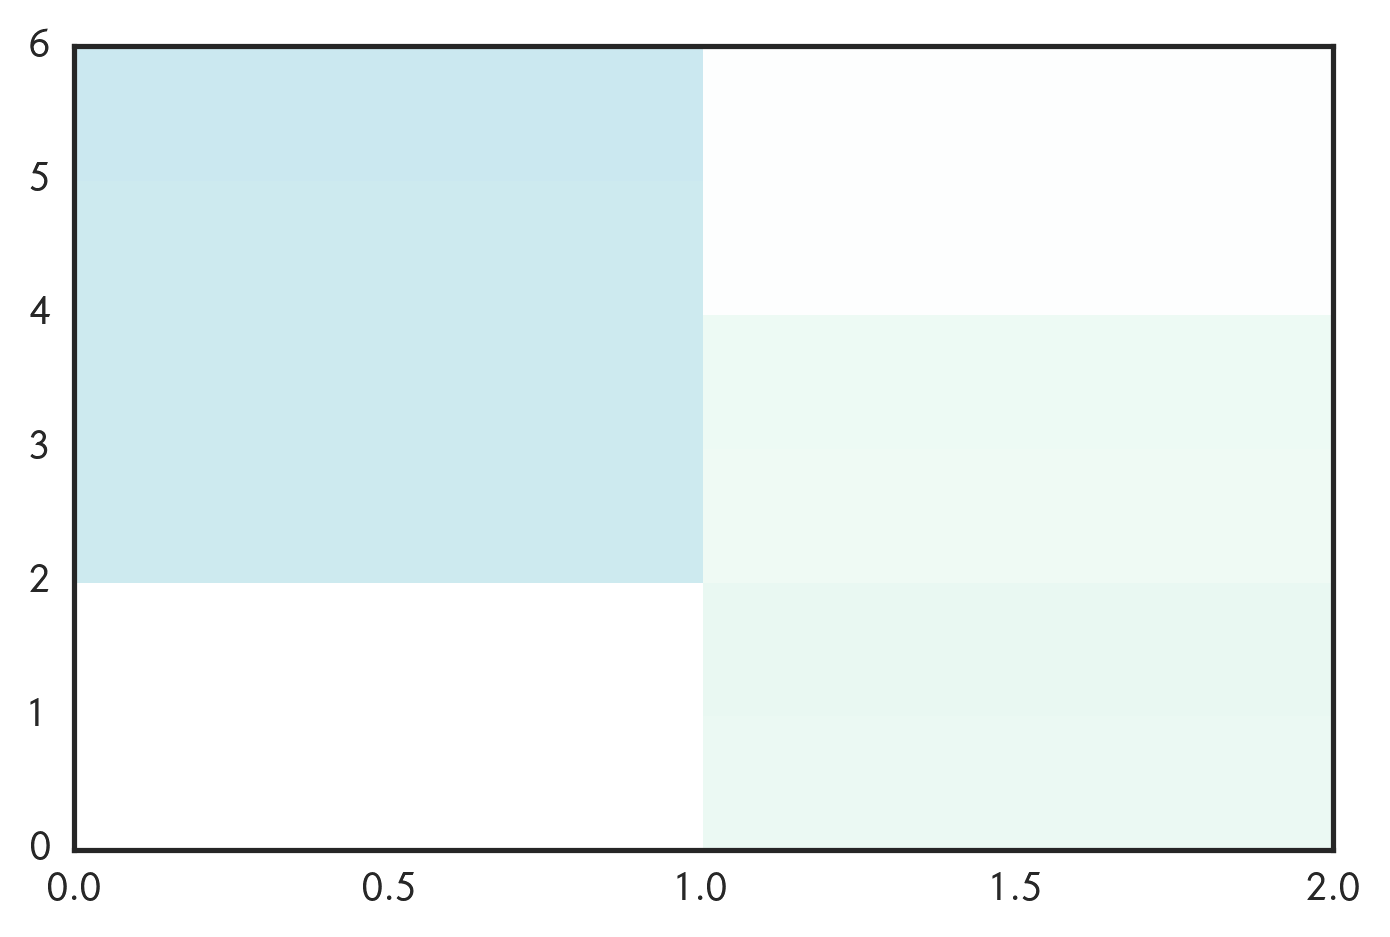
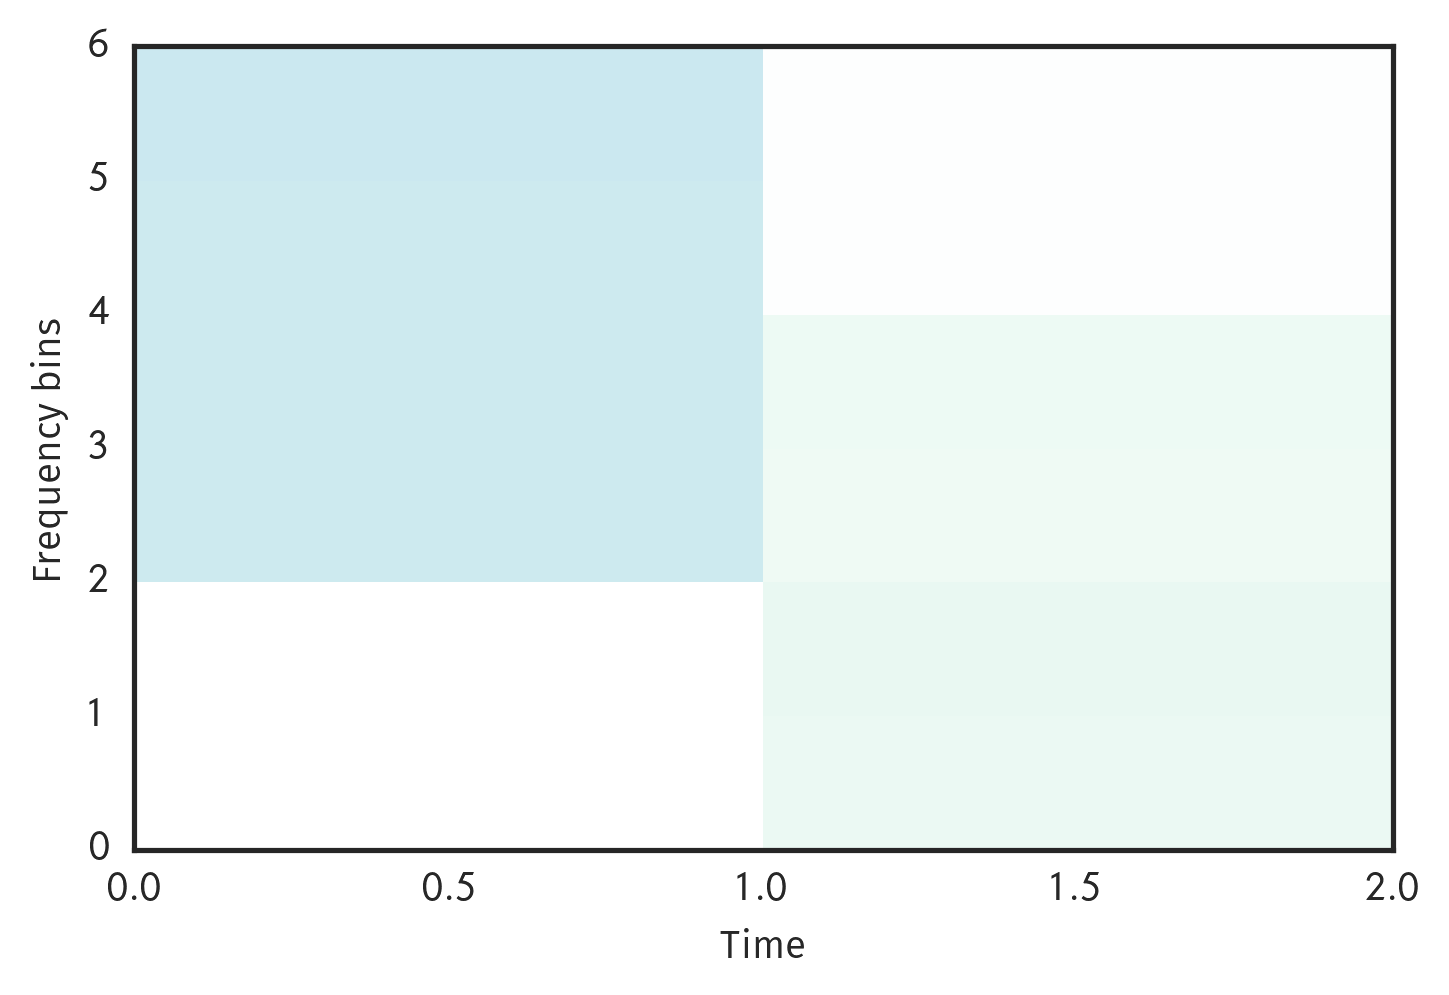
better plots, refining most slides

Changed region(s): [[0.0, 0.0309, 0.9899, 0.9594]]

diff --git a/index.html b/index.html
@@ -69,11 +69,14 @@
 					</p>
 				</section>
 				<section>
-					<h2>Common Fate Theory</h2>
+					<h2>Wanted</h2>
 					<ul>
-						<li><a href="#">Bregman in 1994</a> used term "Common Fate" in auditory scene analysis.</li>
-						<li>He describes <b>common fate</b> as the ability to group sound objects based on their common motion over time</li>
-						<li>Humans ability to detect and group sound sources by small differences in the FM and AM modulation is outstanding</li>
+						<li>Signal representation which exploits
+							<li>Amplitude Modulations</li>
+							<li>Frequency Modulations</li>
+							<li>Phase Modulations</li>
+						</li>
+						<li>Easily invertible</li>
 					</ul>
 				</section>
 				<section>
@@ -88,9 +91,29 @@
 					<h1 style='color:white; font-size: 2.4em'>Common Fate Transform</h1>
 				</section>
 				<section>
+					<h2>"Common Fate"</h2>
+					<ul>
+						<li><a href="#">Bregman in 1994</a> used term "Common Fate" in auditory scene analysis.</li>
+						<li>He describes <b>common fate</b> as the ability to group sound objects based on their common motion over time</li>
+						<li>Humans ability to detect and group sound sources by small differences in the FM and AM modulation is outstanding</li>
+					</ul>
+				</section>
+				<section>
 					<h2>Common Fate Transform</h2>
 					<p>
 						<img src="images/cft_blocks.svg" alt="" />
+					</p>
+				</section>
+				<section>
+					<h2>Audio</h2>
+					<p>
+						<img class="stretch" width="90%" src="images/wavform.svg">
+					</p>
+				</section>
+				<section>
+					<h2>STFT</h2>
+					<p>
+						<img class="stretch" width="90%" src="images/stft.png">
 					</p>
 				</section>
 				<section>
@@ -98,10 +121,16 @@
 					<table>
 						<tr>
 							<td>
-								<img src="images/stft.png" alt="" />
+								<img src="images/gft.png" width="100%" alt="" />
+								<p style="text-align:center">
+									STFT Grid
+								</p>
 							</td>
 							<td>
-								<img src="images/cft.png" alt="" />
+								<img src="images/cft.png" width="100%" alt="" />
+								<p style="text-align:center">
+									CFT
+								</p>
 							</td>
 						</tr>
 					</table>
@@ -114,7 +143,6 @@
 						<img class="stretch" width="90%" src="images/gridplot.svg">
 					</p>
 				</section>
-
 				<section>
 					<h2>Compared to modulation spectrograms... </h2>
 					<ul>
@@ -158,14 +186,14 @@
 					<section>
 						<h2>Common Fate Model</h2>
 						<p>
-							<img src="images/cfm_unfolded.svg" width="100%" alt="" />
+							<img src="images/cfm.svg" width="100%" alt="" />
 								$$\sum\limits_{j=1}^{J} \mathbf{P}_{j}(a,b,f) \circ \mathbf{h}_{j}(t)$$
 						</p>
 					</section>
 					<section>
 						<h2>Common Fate Model</h2>
 						<p>
-							<img src="images/cfm.svg" width="100%" alt="" />
+							<img src="images/cfm_unfolded.svg" width="100%" alt="" />
 								$$\sum\limits_{j=1}^{J} \mathbf{P}_{j}(a,b,f) \circ \mathbf{h}_{j}(t)$$
 						</p>
 					</section>
@@ -174,6 +202,7 @@
 					<h2>Signal Separation</h2>
 					<ol>
 						<li>Compute the CFT from audio signal to get tensor $\mathbf{V}$</li>
+						<li>Take the magnitude $|\mathbf{V}|$</li>
 						<li>Initialise $\mathbf{P}$ and $\mathbf{h}$ with random non-negative values</li>
 						<li>Apply multiplicative update rule to minimize $\beta$-divergence</strong></li>
 						<li>Synthesise factorised components using Wiener filtering</strong></li>

diff --git a/data/render_patches.py b/data/render_patches.py
@@ -64,6 +64,9 @@ def displaySTFT(X, name=None, limit=None):
         vmax=20,
         cmap='cubehelix_r',
     )
+    plt.xlabel('Time')
+    plt.ylabel('Frequency bins')
+
     if limit is not None:
         plt.axis(limit)
 
@@ -73,7 +76,7 @@ def displaySTFT(X, name=None, limit=None):
         plt.savefig(name, bbox_inches='tight', dpi=300)
 
 
-def displayMSTFT(Z, name=None, tricks=False):
+def displayMSTFT(Z, name=None, tricks=False, gft=False):
     plt.rc('text', usetex=True)
     plt.rc('font', family='FiraSans')
 
@@ -120,16 +123,25 @@ def displayMSTFT(Z, name=None, tricks=False):
     plt.rcParams.update(params)
     # display a modulation spectrogram, of shape (w1,w2,f,t)
     plt.figure(1)
+
     (nF, nT) = Z.shape[2:4]
     f, ax = plt.subplots(nF, nT)
     for (f, t) in itertools.product(range(nF), range(nT)):
         # plt.subplot(nF, nT, (nF-f-1) * nT+t+1)
-        ax[f, t].pcolormesh(
-            np.flipud(abs(Z[..., nF - f - 1, t])) ** 0.3,
-            vmin=0,
-            vmax=10,
-            cmap='cubehelix_r',
-        )
+        if gft:
+            ax[f, t].pcolormesh(
+                np.flipud(abs(Z[..., nF - f - 1, t])),
+                vmin=0,
+                vmax=10,
+                cmap='cubehelix_r',
+            )
+        else:
+            ax[f, t].pcolormesh(
+                np.flipud(abs(Z[..., nF - f - 1, t])) ** 0.3,
+                vmin=0,
+                vmax=10,
+                cmap='cubehelix_r',
+            )
 
         ax[f, t].set_xticks([])
         ax[f, t].set_xlabel('')
@@ -137,7 +149,7 @@ def displayMSTFT(Z, name=None, tricks=False):
         ax[f, t].set_ylabel('')
 
         if tricks:
-            ax[f, t].axis((0, 48, 4, 28))
+            ax[f, t].axis((0, 48, 5, 32))
 
             if f == 0 and t == nT - 1:
                 ax[f, t].yaxis.tick_right()
@@ -163,7 +175,7 @@ def displayMSTFT(Z, name=None, tricks=False):
                 )
 
     f = plt.gcf()
-    f.subplots_adjust(wspace=0, hspace=0)
+    f.subplots_adjust(wspace=0.3, hspace=0.3)
 
     if name is None:
         plt.show()
@@ -194,6 +206,7 @@ def process(
     # compute modulation STFT
     print 'computing modulation STFT'
     x = commonfate.transform.forward(xstft, W, mhop, real=False)
+    g = commonfate.transform.split(xstft, W, mhop, False)
 
     print 'getting modulation spectrogram, shape:', x.shape
     z = np.abs(x) ** pref['alpha']
@@ -239,6 +252,7 @@ def process(
         displaySTFT(stf_k[0], 'images/stft_k0.png', (0, 279, 0, 352))
         displaySTFT(stf_k[1], 'images/stft_k1.png', (0, 279, 0, 352))
         displayMSTFT(z[..., 0], 'images/cft.png', tricks=True)
+        displayMSTFT(g[..., 0], 'images/gft.png', tricks=True, gft=True)
         displayMSTFT(z_k[0][..., 0], 'images/cft_k0.png', tricks=True)
         displayMSTFT(z_k[1][..., 0], 'images/cft_k1.png', tricks=True)
         displayMSTFT(P, 'images/P.png', tricks=False)
